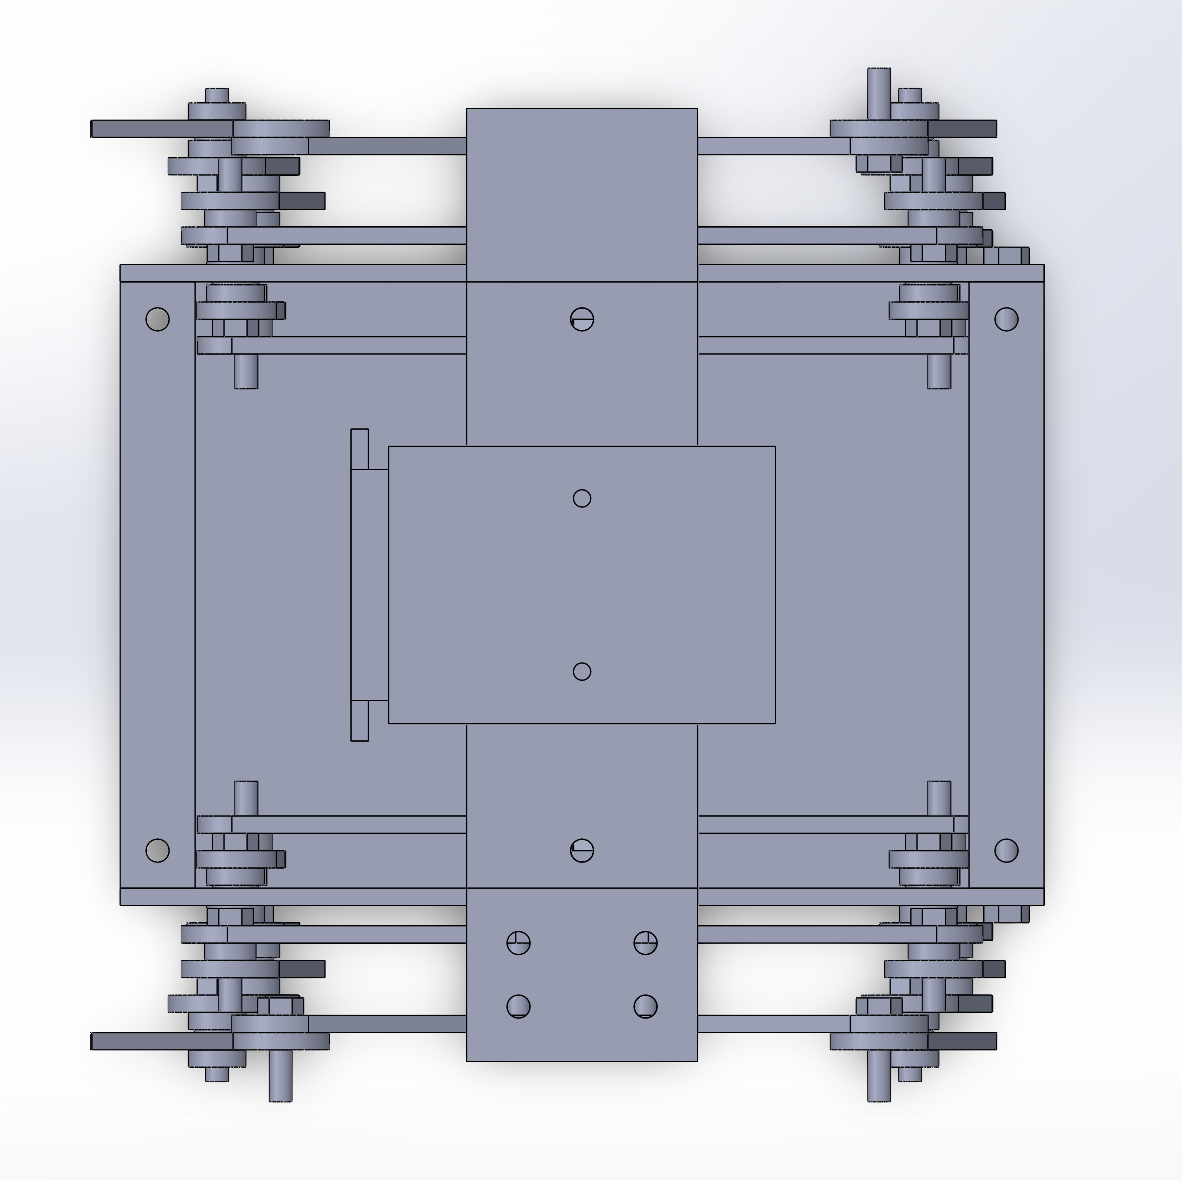
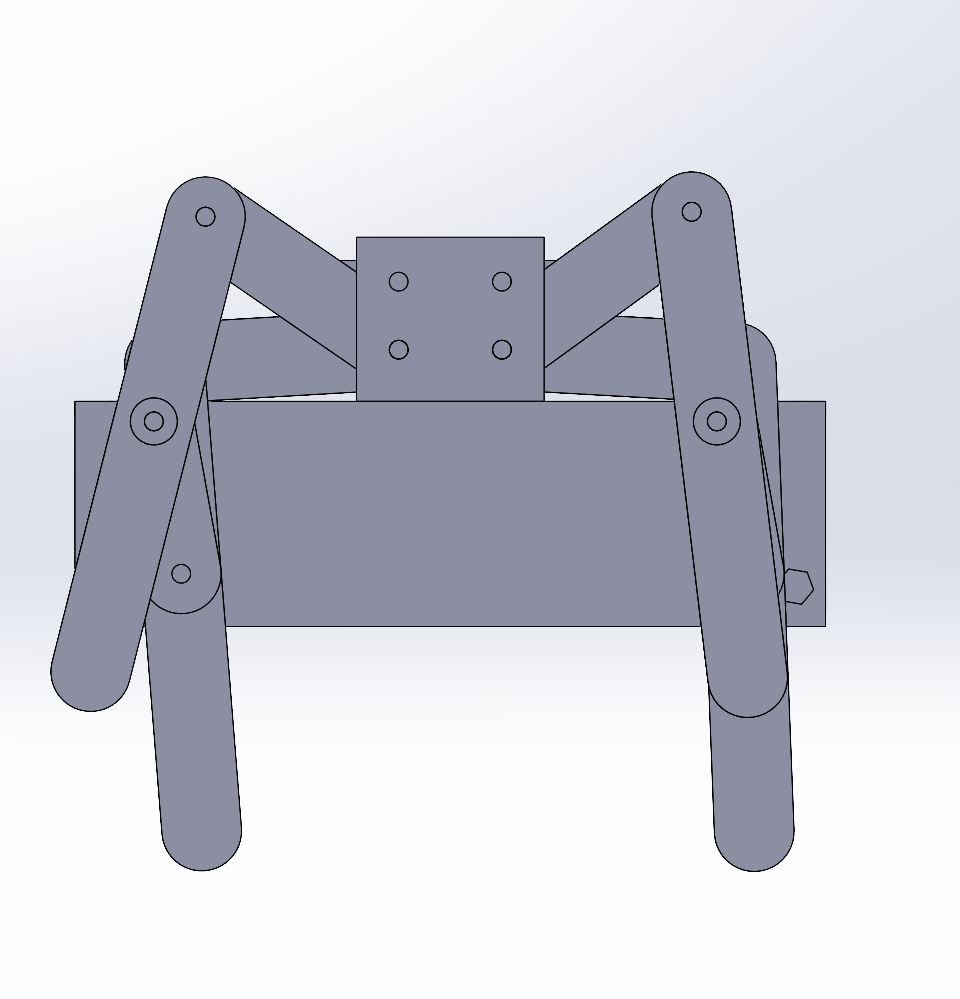
Add files via upload

diff --git a/main.js b/main.js
@@ -89,12 +89,12 @@ const expertiseDetails = {
                         <span class="thumb-label">정면도</span>
                     </div>
                     <div class="thumb-container">
-                        <img src="2.png" alt="Top View" class="modal-img-small">
+                        <img src="3.png" alt="Top View" class="modal-img-small">
                         <span class="thumb-label">평면도</span>
                     </div>
                     <div class="thumb-container">
-                        <img src="3.png" alt="Rear View" class="modal-img-small">
-                        <span class="thumb-label">배면도</span>
+                        <img src="2.png" alt="Side View" class="modal-img-small">
+                        <span class="thumb-label">측면도</span>
                     </div>
                 </div>
 
@@ -148,7 +148,7 @@ const expertiseDetails = {
         title: "Phase 03: 실시간 제어 및 알고리즘",
         content: `
             <div class="modal-detail">
-                <img src="https://images.unsplash.com/photo-1518433278988-d727705427f3?auto=format&fit=crop&q=80&w=800" alt="Control Logic" class="modal-img">
+                <img src="control_algo.png" alt="Control Logic" class="modal-img">
                 <h3>제어 기술 역량</h3>
                 <ul>
                     <li><strong>Gait Algorithm:</strong> 안정적인 보행 패턴 생성을 위한 Inverse Kinematics(역기구학) 적용.</li>
@@ -162,7 +162,7 @@ const expertiseDetails = {
         title: "Phase 04: 최적화 및 성능 평가",
         content: `
             <div class="modal-detail">
-                <img src="https://images.unsplash.com/photo-1507413245164-6160d8298b31?auto=format&fit=crop&q=80&w=800" alt="Evaluation Data" class="modal-img">
+                <img src="optimization_dashboard.jpg" alt="Optimization Dashboard" class="modal-img">
                 <h3>최종 성과 지표</h3>
                 <ul>
                     <li><strong>가동 효율성:</strong> 최적화 전 대비 배터리 소모율 15% 개선.</li>
@@ -335,11 +335,26 @@ function renderPosts() {
         const tr = document.createElement('tr');
         
         const titleTd = document.createElement('td');
-        titleTd.style.fontWeight = '600';
+        titleTd.style.padding = '20px 15px';
         titleTd.style.cursor = 'pointer';
         titleTd.innerHTML = `
-            ${post.title}
-            ${post.adminReply ? '<span class="reply-badge">답변완료</span>' : ''}
+            <div style="font-weight: 700; font-size: 1.1rem; color: #1a1a1a; margin-bottom: 8px;">
+                ${post.title}
+                ${post.adminReply ? '<span class="reply-badge">답변완료</span>' : ''}
+            </div>
+            <div style="font-size: 0.9rem; color: #64748b; margin-bottom: 10px; line-height: 1.4;">
+                ${post.content.length > 100 ? post.content.substring(0, 100) + '...' : post.content}
+            </div>
+            ${post.adminReply ? `
+                <div style="background: #f0f7ff; padding: 12px 15px; border-radius: 8px; border-left: 3px solid var(--accent-color); margin-top: 10px;">
+                    <div style="font-size: 0.8rem; font-weight: 700; color: var(--accent-color); margin-bottom: 5px;">
+                        <i class="fa-solid fa-reply"></i> 관리자 답변
+                    </div>
+                    <div style="font-size: 0.85rem; color: #1e293b;">
+                        ${post.adminReply.length > 80 ? post.adminReply.substring(0, 80) + '...' : post.adminReply}
+                    </div>
+                </div>
+            ` : ''}
         `;
         titleTd.addEventListener('click', () => viewPost(post.id));
 
@@ -432,6 +447,49 @@ if (boardForm) {
     };
 }
 
+window.viewPost = (id) => {
+    const post = posts.find(p => p.id == id);
+    if (!post) return;
+
+    // Check if detail row already exists
+    const existingDetail = document.getElementById(`detail-${id}`);
+    if (existingDetail) {
+        existingDetail.remove();
+        return;
+    }
+
+    // Remove any other open details for a cleaner look (optional)
+    document.querySelectorAll('.post-detail-row').forEach(row => row.remove());
+
+    const tr = Array.from(boardBody.querySelectorAll('tr')).find(row => {
+        const titleCell = row.querySelector('td:nth-child(2)');
+        return titleCell && titleCell.innerText.includes(post.title);
+    });
+
+    if (tr) {
+        const detailTr = document.createElement('tr');
+        detailTr.id = `detail-${id}`;
+        detailTr.className = 'post-detail-row';
+        detailTr.innerHTML = `
+            <td colspan="5">
+                <div class="expand-content" data-aos="fade-down">
+                    <div class="post-text">${post.content}</div>
+                    ${post.adminReply ? `
+                        <div class="admin-reply-box">
+                            <div class="reply-header"><i class="fa-solid fa-reply"></i> 관리자 답변</div>
+                            <div class="reply-text">${post.adminReply}</div>
+                        </div>
+                    ` : `
+                        <div class="no-reply">아직 등록된 답변이 없습니다.</div>
+                    `}
+                </div>
+            </td>
+        `;
+        tr.after(detailTr);
+        AOS.refresh();
+    }
+};
+
 window.editPost = (id) => {
     const post = posts.find(p => p.id == id);
     if (!post) return;
@@ -499,7 +557,7 @@ window.submitAdminReply = (id) => {
     const password = document.getElementById('admin-reply-pass').value;
     const replyText = document.getElementById('admin-reply-text').value;
     
-    if (password === 'admin123') {
+    if (password === '1234') {
         const post = posts.find(p => p.id == id);
         post.adminReply = replyText;
         savePosts();

diff --git a/index.html b/index.html
@@ -38,7 +38,7 @@
 
     <!-- Section: SYNERGY (Hero) -->
     <header id="synergy" class="hero section">
-        <div class="hero-bg" style="background-image: url('premium_robot_semiconductor_bg_1776652564868.png')"></div>
+        <div class="hero-bg" style="background-image: url('hero_bg.png')"></div>
         <div class="hero-overlay"></div>
         <div class="container hero-content" data-aos="fade-up">
             <h2 class="hero-label">SAMSUNG ELECTRONICS DS | Semiconductor Maintenance</h2>
@@ -292,10 +292,10 @@
                     </div>
                 </div>
                 <div class="project-visual" data-aos="fade-left">
-                    <img src="https://cit-skytree.jp/wp-content/uploads/2017/07/24_1.jpg" alt="Halluc IIχ - Professional 8-legged Walking Robot" class="robot-img">
+                    <img src="acrylic_robot.png" alt="The Maestro - Acrylic 8-legged Walking Robot" class="robot-img">
                     <div class="visual-overlay">
-                        <span class="visual-label">RESEARCH-GRADE 8-LEGGED ROBOT</span>
-                        <p class="img-hint">※ 실무 전문가 느낌의 연구용 로봇 모델을 예시로 적용했습니다.</p>
+                        <span class="visual-label">THE MAESTRO: CUSTOM 8-LEGGED ROBOT</span>
+                        <p class="img-hint">※ 직접 설계하고 제작한 8족 보행 로봇의 실제 모델입니다.</p>
                     </div>
                 </div>
             </div>

diff --git a/style.css b/style.css
@@ -650,7 +650,8 @@ header.hero.section.active {
 .robot-img {
     width: 100%;
     height: 100%;
-    object-fit: cover;
+    object-fit: contain;
+    background: white;
     transition: var(--transition);
 }
 